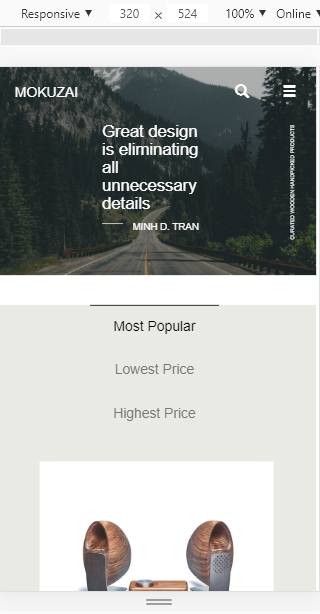
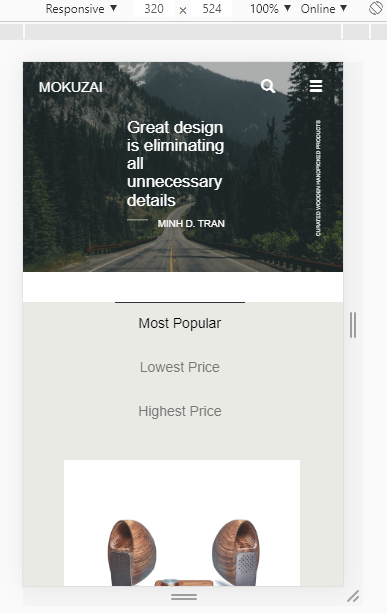
fixing weird issue of right space on mobile device and attaching correct images

diff --git a/css/style.css b/css/style.css
@@ -9,8 +9,11 @@
 }
 body,
 html {
+  width: 100%;
   height: 100%;
-  margin: 0;
+  margin: 0px;
+  padding: 0px;
+  overflow-x: hidden;
   font-family: Arial, Helvetica, sans-serif;
 }
 .hero-image {
